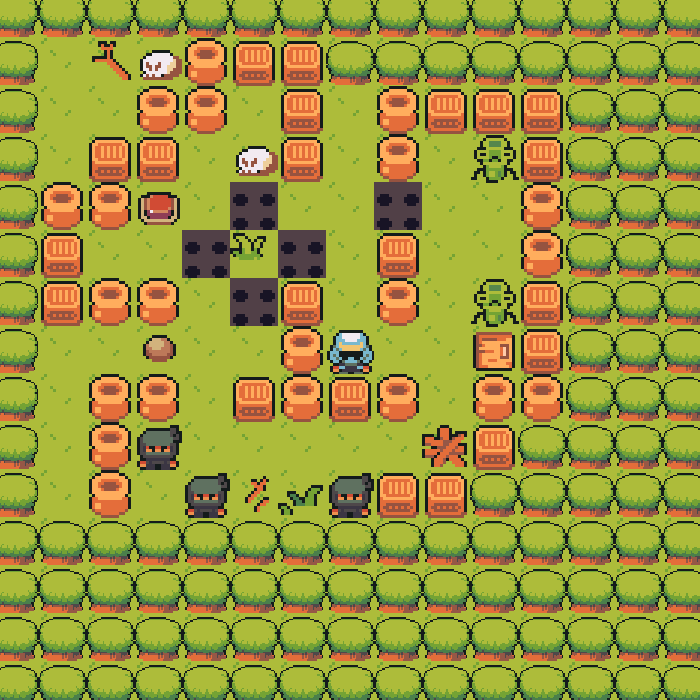
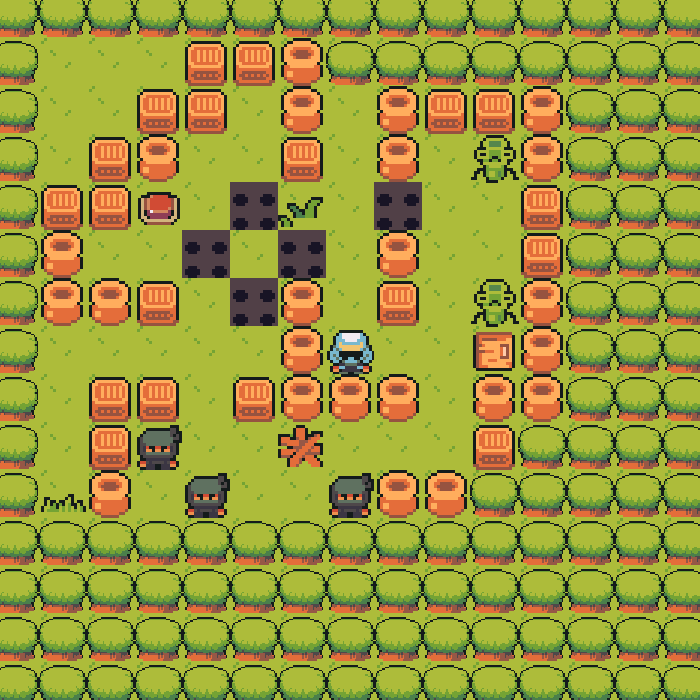
binds

diff --git a/game.py b/game.py
@@ -103,7 +103,7 @@ class Game:
         shurikenEventType = spikesEventType + 1
         pygame.time.set_timer(enemyEventType, 500)
         pygame.time.set_timer(spikesEventType, 300)
-        pygame.time.set_timer(shurikenEventType, 200)
+        pygame.time.set_timer(shurikenEventType, 100)  # Что тебе не нравиться?
         self.level, self.player, self.enemies, self.coordSpikes, self.level_x, self.level_y = \
             functions.generate_level(level_list, self, False)
         # изменяем ракурс камеры
